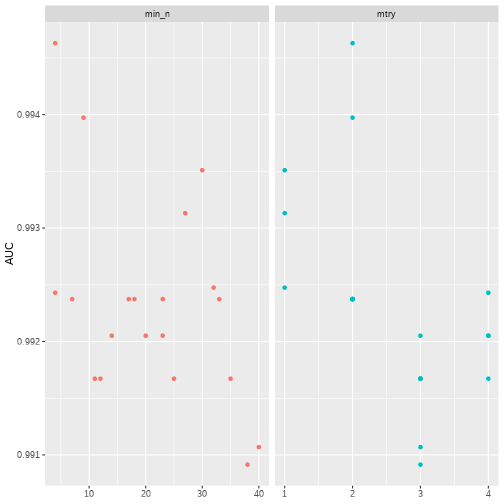
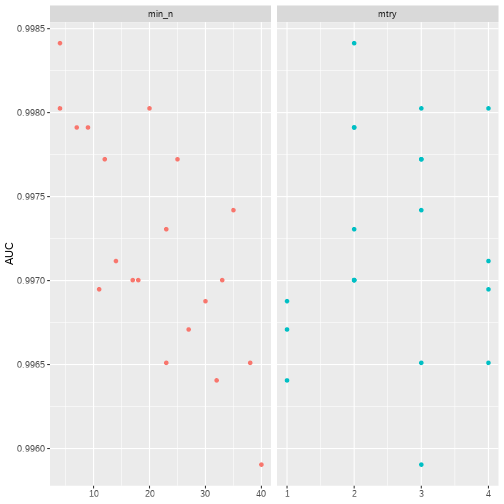
ultimos cambios

diff --git a/material/clasificacion.html b/material/clasificacion.html
@@ -120,8 +120,8 @@ vanilla_tree_spec %&gt;%
 ## # A tibble: 2 x 5
 ##   .metric  .estimator  mean     n std_err
 ##   &lt;chr&gt;    &lt;chr&gt;      &lt;dbl&gt; &lt;int&gt;   &lt;dbl&gt;
-## 1 accuracy multiclass 0.933    10  0.0183
-## 2 roc_auc  hand_till  0.931    10  0.0175
+## 1 accuracy multiclass 0.940    10  0.0162
+## 2 roc_auc  hand_till  0.937    10  0.0240
 ```
 
 ---
@@ -144,13 +144,22 @@ trees_spec %&gt;%
 ## # A tibble: 2 x 5
 ##   .metric  .estimator  mean     n std_err
 ##   &lt;chr&gt;    &lt;chr&gt;      &lt;dbl&gt; &lt;int&gt;   &lt;dbl&gt;
-## 1 accuracy multiclass 0.933    10  0.0183
-## 2 roc_auc  hand_till  0.931    10  0.0175
+## 1 accuracy multiclass 0.936    10  0.0161
+## 2 roc_auc  hand_till  0.937    10  0.0240
 ```
 
 ---
 
 # Testing set
+
+
+---
+
+# EJERCICIO DE TUNEO PARA ELLOS
+
+#TUNEO DE MIN_N
+#TUNEO DE C
+
 
 
 ---
@@ -167,6 +176,14 @@ p_recipe &lt;- training(p_split) %&gt;%
   step_scale(all_predictors(), -all_outcomes()) %&gt;%
   prep()
 
+#AGREGAR CON JUICE LOS PRETRATAMIENTOS
+```
+
+---
+
+
+
+```r
 rf_spec &lt;- rand_forest() %&gt;% 
   set_engine("ranger") %&gt;% 
   set_mode("classification")
@@ -183,8 +200,8 @@ rf_spec %&gt;%
 ## # A tibble: 2 x 5
 ##   .metric  .estimator  mean     n std_err
 ##   &lt;chr&gt;    &lt;chr&gt;      &lt;dbl&gt; &lt;int&gt;   &lt;dbl&gt;
-## 1 accuracy multiclass 0.968    10 0.0116 
-## 2 roc_auc  hand_till  0.998    10 0.00181
+## 1 accuracy multiclass 0.972    10 0.00847
+## 2 roc_auc  hand_till  0.998    10 0.00219
 ```
 
 
@@ -210,8 +227,8 @@ rf2_spec %&gt;%
 ## # A tibble: 2 x 5
 ##   .metric  .estimator  mean     n std_err
 ##   &lt;chr&gt;    &lt;chr&gt;      &lt;dbl&gt; &lt;int&gt;   &lt;dbl&gt;
-## 1 accuracy multiclass 0.968    10 0.0116 
-## 2 roc_auc  hand_till  0.998    10 0.00181
+## 1 accuracy multiclass 0.972    10 0.00847
+## 2 roc_auc  hand_till  0.998    10 0.00219
 ```
 
 
@@ -236,8 +253,8 @@ rf3_spec %&gt;%
 ## # A tibble: 2 x 5
 ##   .metric  .estimator  mean     n std_err
 ##   &lt;chr&gt;    &lt;chr&gt;      &lt;dbl&gt; &lt;int&gt;   &lt;dbl&gt;
-## 1 accuracy multiclass 0.964    10 0.0111 
-## 2 roc_auc  hand_till  0.998    10 0.00133
+## 1 accuracy multiclass 0.964    10 0.0151 
+## 2 roc_auc  hand_till  0.997    10 0.00279
 ```
 
 
@@ -262,9 +279,19 @@ rf4_spec %&gt;%
 ## # A tibble: 2 x 5
 ##   .metric  .estimator  mean     n std_err
 ##   &lt;chr&gt;    &lt;chr&gt;      &lt;dbl&gt; &lt;int&gt;   &lt;dbl&gt;
-## 1 accuracy multiclass 0.964    10 0.0111 
-## 2 roc_auc  hand_till  0.997    10 0.00181
+## 1 accuracy multiclass 0.964    10 0.0152 
+## 2 roc_auc  hand_till  0.997    10 0.00279
 ```
+
+---
+
+# ACA VAN A OPTIMIZAR ELLOS
+
+# MIN_N
+
+---
+
+# RESPUESTA
 
 ---
 
@@ -321,23 +348,23 @@ tune_res
 ## # A tibble: 10 x 4
 ##    splits           id     .metrics          .notes          
 ##    &lt;list&gt;           &lt;chr&gt;  &lt;list&gt;            &lt;list&gt;          
-##  1 &lt;split [223/27]&gt; Fold01 &lt;tibble [40 × 6]&gt; &lt;tibble [0 × 1]&gt;
-##  2 &lt;split [225/25]&gt; Fold02 &lt;tibble [40 × 6]&gt; &lt;tibble [0 × 1]&gt;
-##  3 &lt;split [225/25]&gt; Fold03 &lt;tibble [40 × 6]&gt; &lt;tibble [0 × 1]&gt;
-##  4 &lt;split [225/25]&gt; Fold04 &lt;tibble [40 × 6]&gt; &lt;tibble [0 × 1]&gt;
+##  1 &lt;split [224/26]&gt; Fold01 &lt;tibble [40 × 6]&gt; &lt;tibble [0 × 1]&gt;
+##  2 &lt;split [224/26]&gt; Fold02 &lt;tibble [40 × 6]&gt; &lt;tibble [0 × 1]&gt;
+##  3 &lt;split [224/26]&gt; Fold03 &lt;tibble [40 × 6]&gt; &lt;tibble [0 × 1]&gt;
+##  4 &lt;split [224/26]&gt; Fold04 &lt;tibble [40 × 6]&gt; &lt;tibble [0 × 1]&gt;
 ##  5 &lt;split [225/25]&gt; Fold05 &lt;tibble [40 × 6]&gt; &lt;tibble [0 × 1]&gt;
 ##  6 &lt;split [225/25]&gt; Fold06 &lt;tibble [40 × 6]&gt; &lt;tibble [0 × 1]&gt;
 ##  7 &lt;split [225/25]&gt; Fold07 &lt;tibble [40 × 6]&gt; &lt;tibble [0 × 1]&gt;
 ##  8 &lt;split [225/25]&gt; Fold08 &lt;tibble [40 × 6]&gt; &lt;tibble [0 × 1]&gt;
-##  9 &lt;split [226/24]&gt; Fold09 &lt;tibble [40 × 6]&gt; &lt;tibble [0 × 1]&gt;
-## 10 &lt;split [226/24]&gt; Fold10 &lt;tibble [40 × 6]&gt; &lt;tibble [0 × 1]&gt;
+##  9 &lt;split [227/23]&gt; Fold09 &lt;tibble [40 × 6]&gt; &lt;tibble [0 × 1]&gt;
+## 10 &lt;split [227/23]&gt; Fold10 &lt;tibble [40 × 6]&gt; &lt;tibble [0 × 1]&gt;
 ```
 
 ---
 
 
 
-![](clasificacion_files/figure-html/unnamed-chunk-14-1.png)&lt;!-- --&gt;
+![](clasificacion_files/figure-html/unnamed-chunk-15-1.png)&lt;!-- --&gt;
 
 
 
@@ -390,14 +417,16 @@ final_res %&gt;%
 ## # A tibble: 2 x 3
 ##   .metric  .estimator .estimate
 ##   &lt;chr&gt;    &lt;chr&gt;          &lt;dbl&gt;
-## 1 accuracy multiclass     0.976
-## 2 roc_auc  hand_till      0.999
+## 1 accuracy multiclass         1
+## 2 roc_auc  hand_till          1
 ```
 
 
 ---
 
 ## Importancia de las variables
+
+### libreria vip
 
 
 ```r
@@ -411,8 +440,14 @@ final_rf %&gt;%
 ```
 
 ---
+## Gráfico 
+![](clasificacion_files/figure-html/unnamed-chunk-19-1.png)&lt;!-- --&gt;
 
-![](clasificacion_files/figure-html/unnamed-chunk-18-1.png)&lt;!-- --&gt;
+---
+
+# Ejercicio 
+
+#que obtengan el mismo grafico pero con arboles
     </textarea>
 <style data-target="print-only">@media screen {.remark-slide-container{display:block;}.remark-slide-scaler{box-shadow:none;}}</style>
 <script src="https://remarkjs.com/downloads/remark-latest.min.js"></script>
